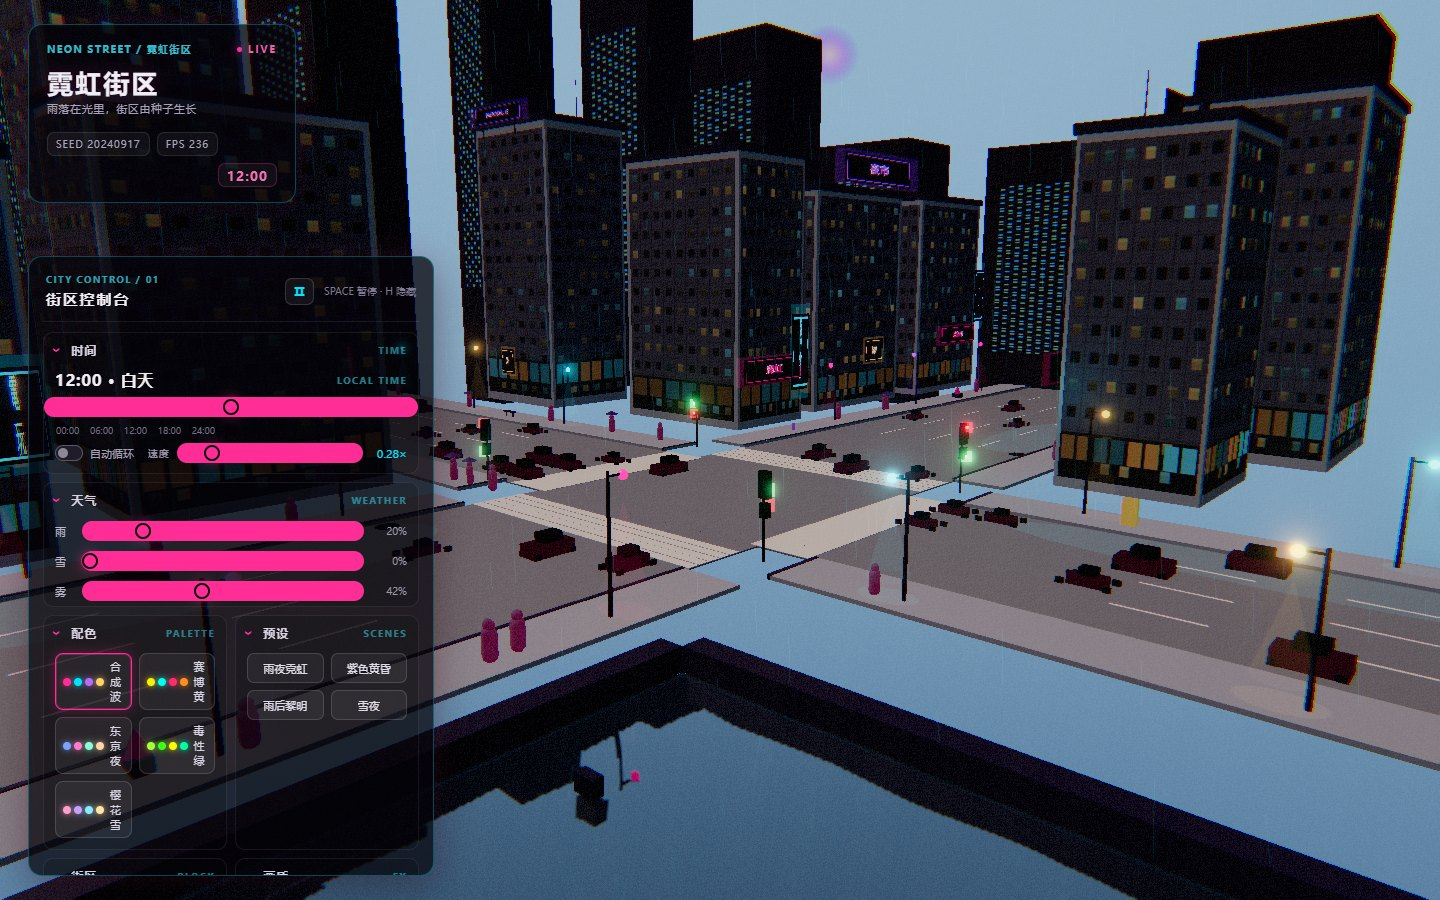
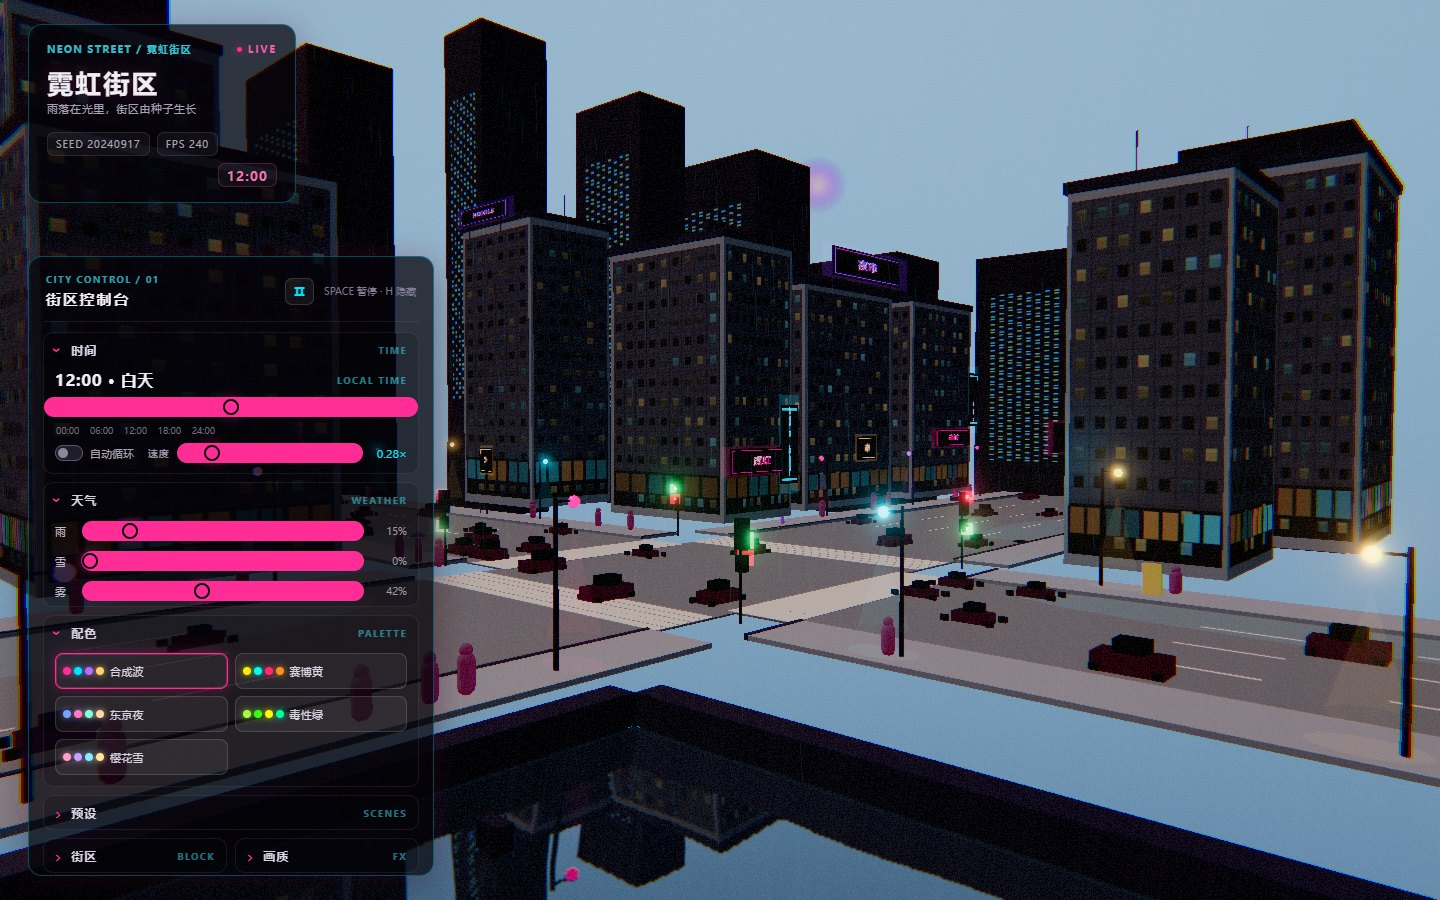
polish: readable theme swatch labels, full-width palette section, refresh screenshots

diff --git a/web/src/ui/index.ts b/web/src/ui/index.ts
@@ -102,7 +102,7 @@ function addRange(
 function addDetails(parent: Element, key: string, title: string, detail?: string): HTMLElement {
   const details = document.createElement('details');
   details.className = `control-section section-${key}`;
-  details.open = key === 'time' || key === 'weather' || key === 'theme' || key === 'preset';
+  details.open = key === 'time' || key === 'weather' || key === 'theme';
   const summary = document.createElement('summary');
   summary.className = 'section-summary';
   const summaryTitle = addText(summary, 'span', 'section-title', title);
@@ -237,7 +237,7 @@ export function mountUI(deps: UiDeps): UiHandle {
   themeSection.append(themeGrid);
   const themeButtons = new Map<ThemeId, HTMLButtonElement>();
   for (const theme of Object.values(THEMES)) {
-    const button = addButton(themeGrid, 'theme-swatch', theme.nameZh, `切换配色：${theme.nameZh}`);
+    const button = addButton(themeGrid, 'theme-swatch', '', `切换配色：${theme.nameZh}`);
     button.dataset.themeId = theme.id;
     button.style.setProperty('--swatch-a', theme.neon[0]);
     button.style.setProperty('--swatch-b', theme.neon[1]);
@@ -250,7 +250,8 @@ export function mountUI(deps: UiDeps): UiHandle {
       dot.style.setProperty('--dot-color', theme.neon[index]);
       dots.append(dot);
     }
-    button.prepend(dots);
+    button.append(dots);
+    addText(button, 'span', 'swatch-name', theme.nameZh);
     addText(button, 'span', 'swatch-name-en', theme.name);
     themeButtons.set(theme.id, button);
   }

diff --git a/web/src/ui/ui.css b/web/src/ui/ui.css
@@ -239,6 +239,14 @@ summary:focus-visible {
   padding-top: 10px;
 }
 
+.section-time,
+.section-weather,
+.section-theme,
+.section-preset {
+  /* Time/weather/theme/presets are primary controls: give them the full dock width. */
+  grid-column: 1 / -1;
+}
+
 .control-section {
   min-width: 0;
   border: 1px solid rgba(255,255,255,.075);
@@ -354,6 +362,7 @@ input[type='range']::-moz-range-thumb {
 .theme-swatch.is-selected { border-color: var(--accent); box-shadow: 0 0 13px color-mix(in srgb, var(--accent) 28%, transparent), inset 0 0 0 1px color-mix(in srgb, var(--accent) 35%, transparent); }
 .swatch-dots { display: flex; gap: 3px; }
 .swatch-dots i { width: 8px; height: 8px; border-radius: 50%; background: var(--dot-color); box-shadow: 0 0 7px var(--dot-color); }
+.swatch-name { white-space: nowrap; font-size: 11px; letter-spacing: .02em; }
 .swatch-name-en { display: none; }
 .preset-grid { grid-template-columns: repeat(2, minmax(0, 1fr)); }
 .preset-button { min-height: 30px; border-radius: 7px; color: #e0dbe7; font-size: 11px; overflow: hidden; }
